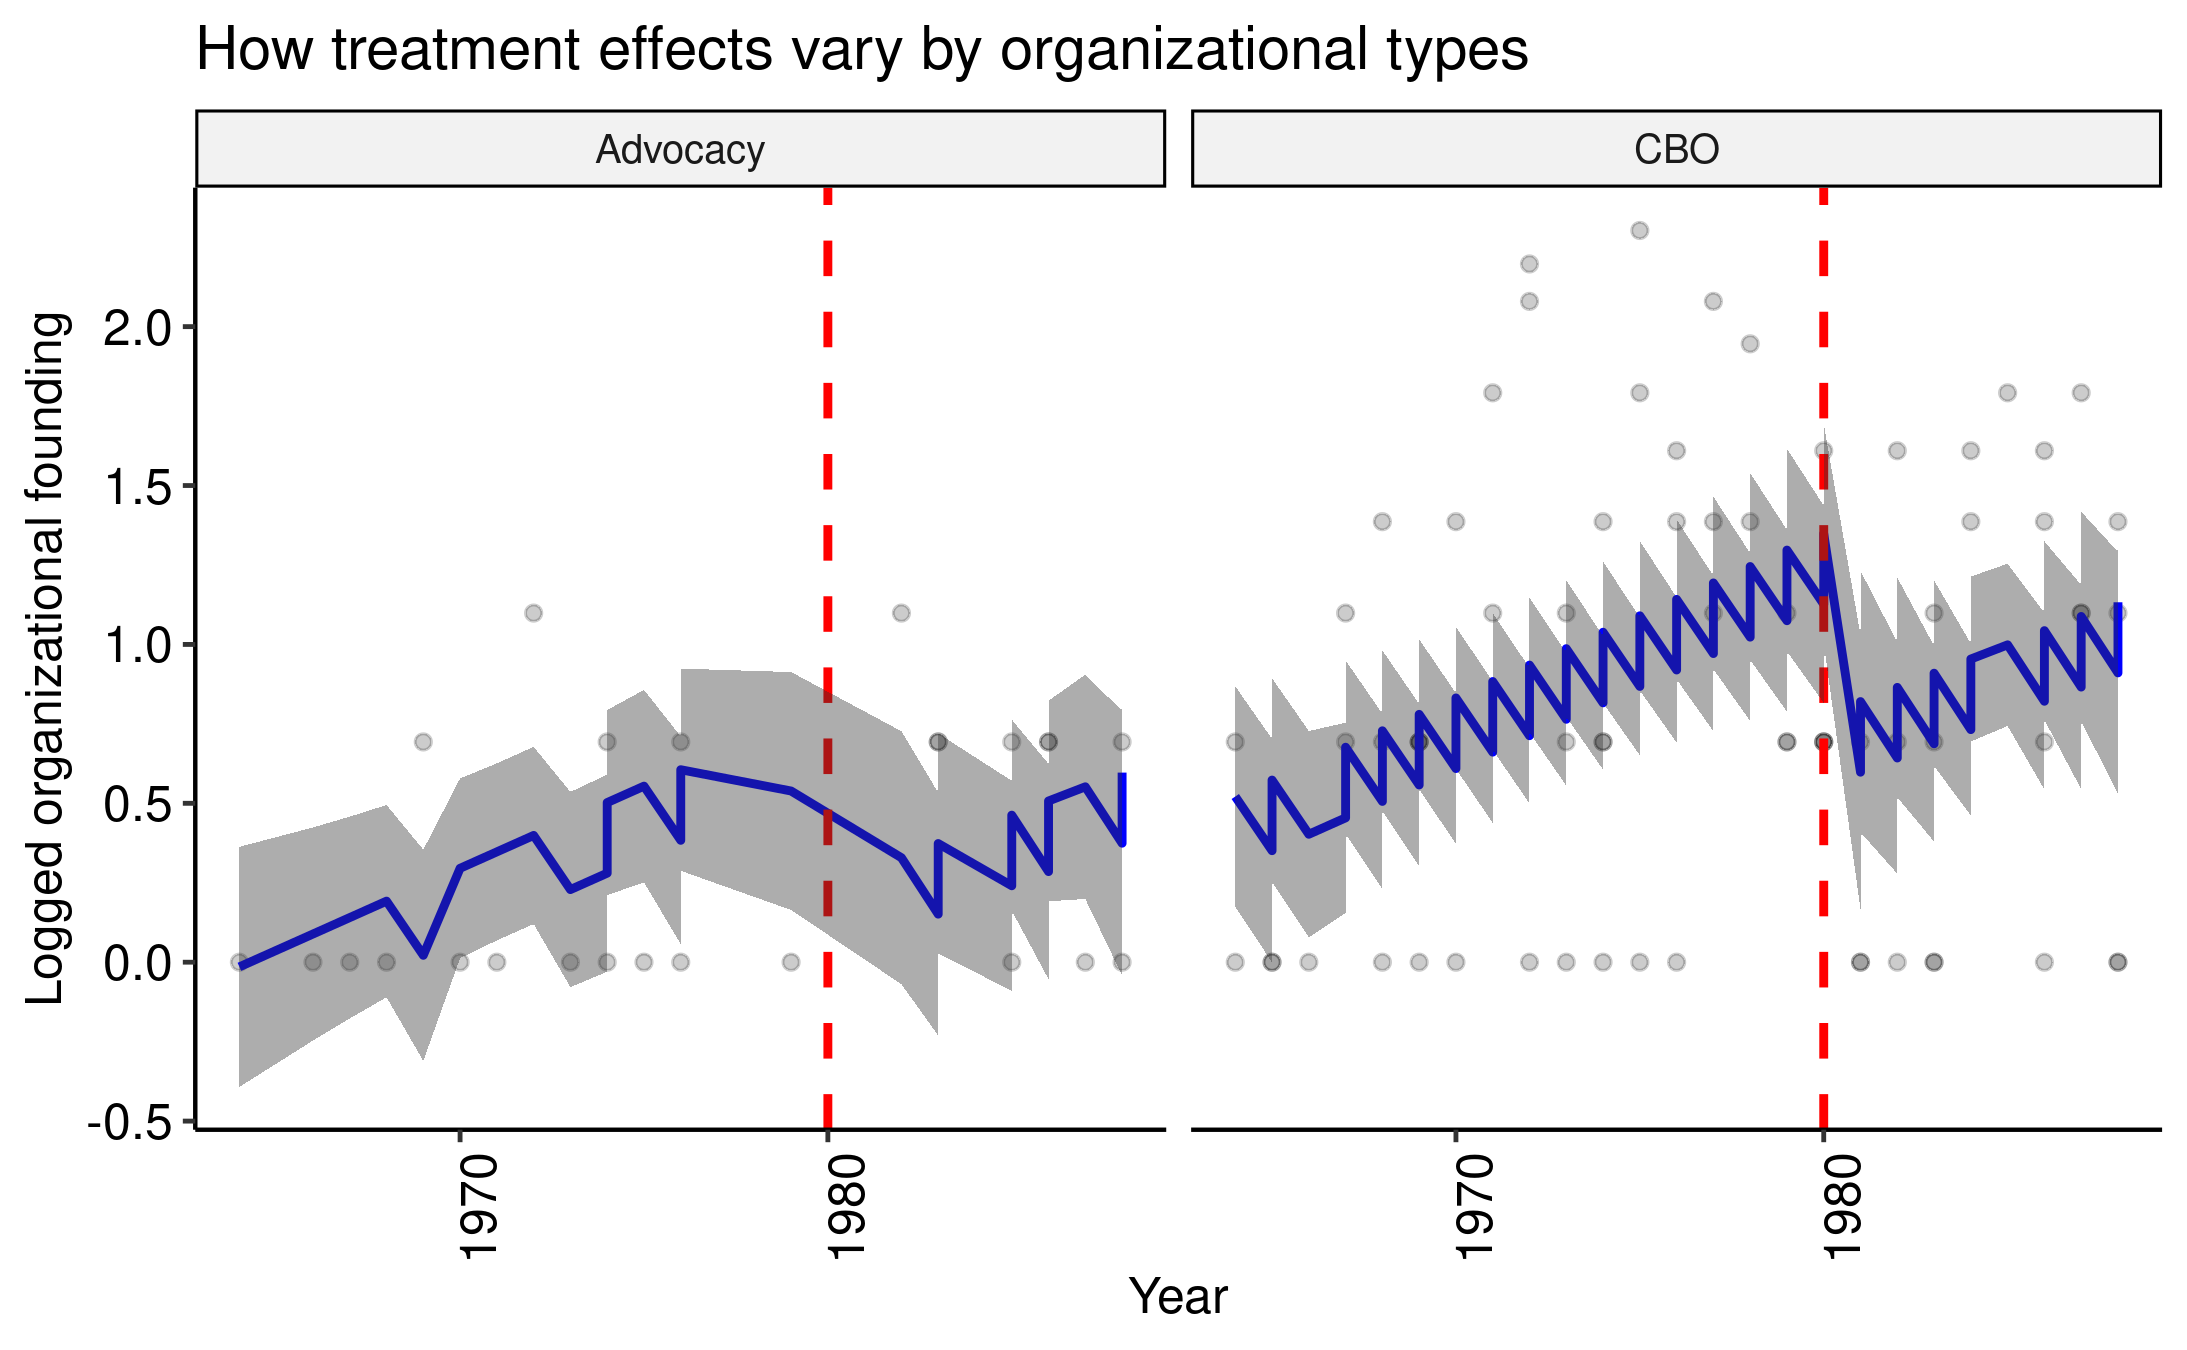
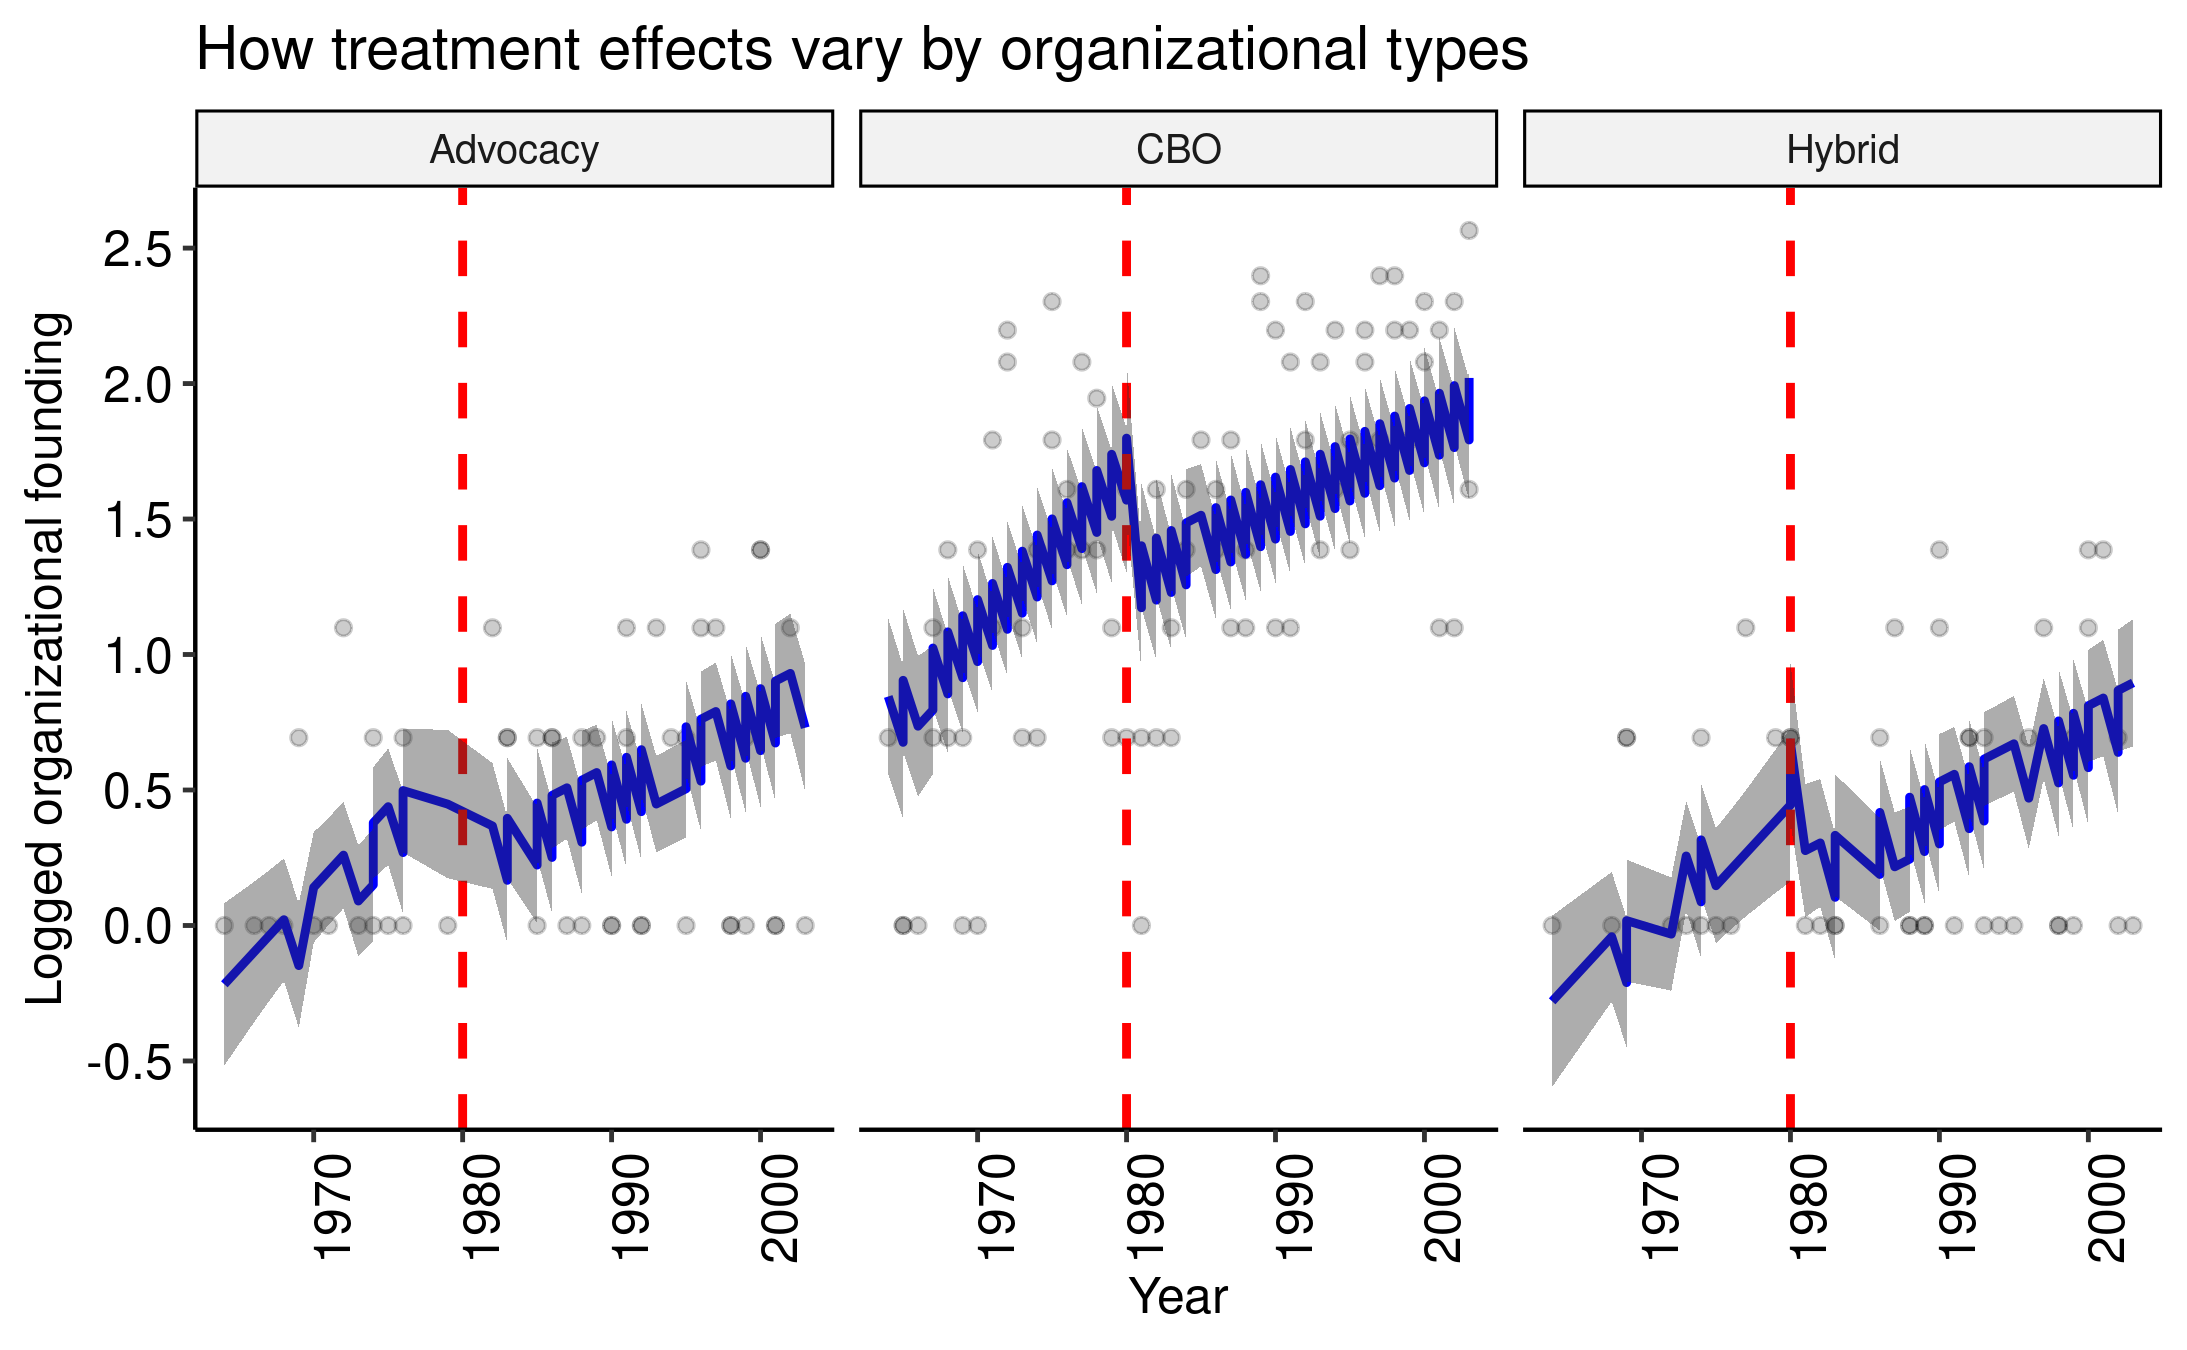
update

diff --git a/README.md b/README.md
@@ -127,9 +127,9 @@ year[i] <- 1970 + i
 
 **Figure 6. Model performance comparisons*
 
-**Update: Limited the data for the bootstrapping analysis up to year 1988 to avoid too much extrapolation. The breakpoint was determined by the `strucchange::breakpoints()` function`. This decision applies to all the model outcomes presented below.**
+**Update: Limited the data for the bootstrapping analysis up to year 2003 to avoid too much extrapolation. The breakpoint was determined by the `strucchange::breakpoints()` function`. This decision applies to all the model outcomes presented below.**
 
-From this point on, I used the OLS with logged DV for the analysis and limited the data to CBOs. We saw the slope change. Given the research question, it is important to know to what extent the federal funding contributed to the slope change as opposed to other factors. To do so, I examined how the coefficients of federal funding changed as we extended the data from 1970 to 1988. For instance, the 1970 data is the subset of the original data which includes observations up to the year 1970. I created a point plot using a for loop. The point plot in Figure 7 shows that the coefficients of the federal funding were positive up to the cutpoint. Then they became almost zero after the cutpoint. An opposite trend was found from the changes in the coefficients of population growth. They were either negative or zero before the cutpoint. Then they became positive in the 1980s and then again became almost zero or negative afterward.
+From this point on, I used the OLS with logged DV for the analysis and limited the data to CBOs. We saw the slope change. Given the research question, it is important to know to what extent the federal funding contributed to the slope change as opposed to other factors. To do so, I examined how the coefficients of federal funding changed as we extended the data from 1970 to 2003. For instance, the 1970 data is the subset of the original data which includes observations up to the year 1970. I created a point plot using a for loop. The point plot in Figure 7 shows that the coefficients of the federal funding were positive up to the cutpoint. Then they became almost zero after the cutpoint. An opposite trend was found from the changes in the coefficients of population growth. They were either negative or zero before the cutpoint. Then they became positive in the 1980s and then again became almost zero or negative afterward.
 
 To measure the certainty of the coefficient change, I added confidence intervals using bootstrapping. Bootstrapping is resampling with replacement. For each regression model at a time point, I resampled the data and ran the same analysis for 1,000 times, and created confidence intervals based on the sampling variability of regression coefficients. This information shows that the coefficient change around the cutpoint is statistically significant.
 
